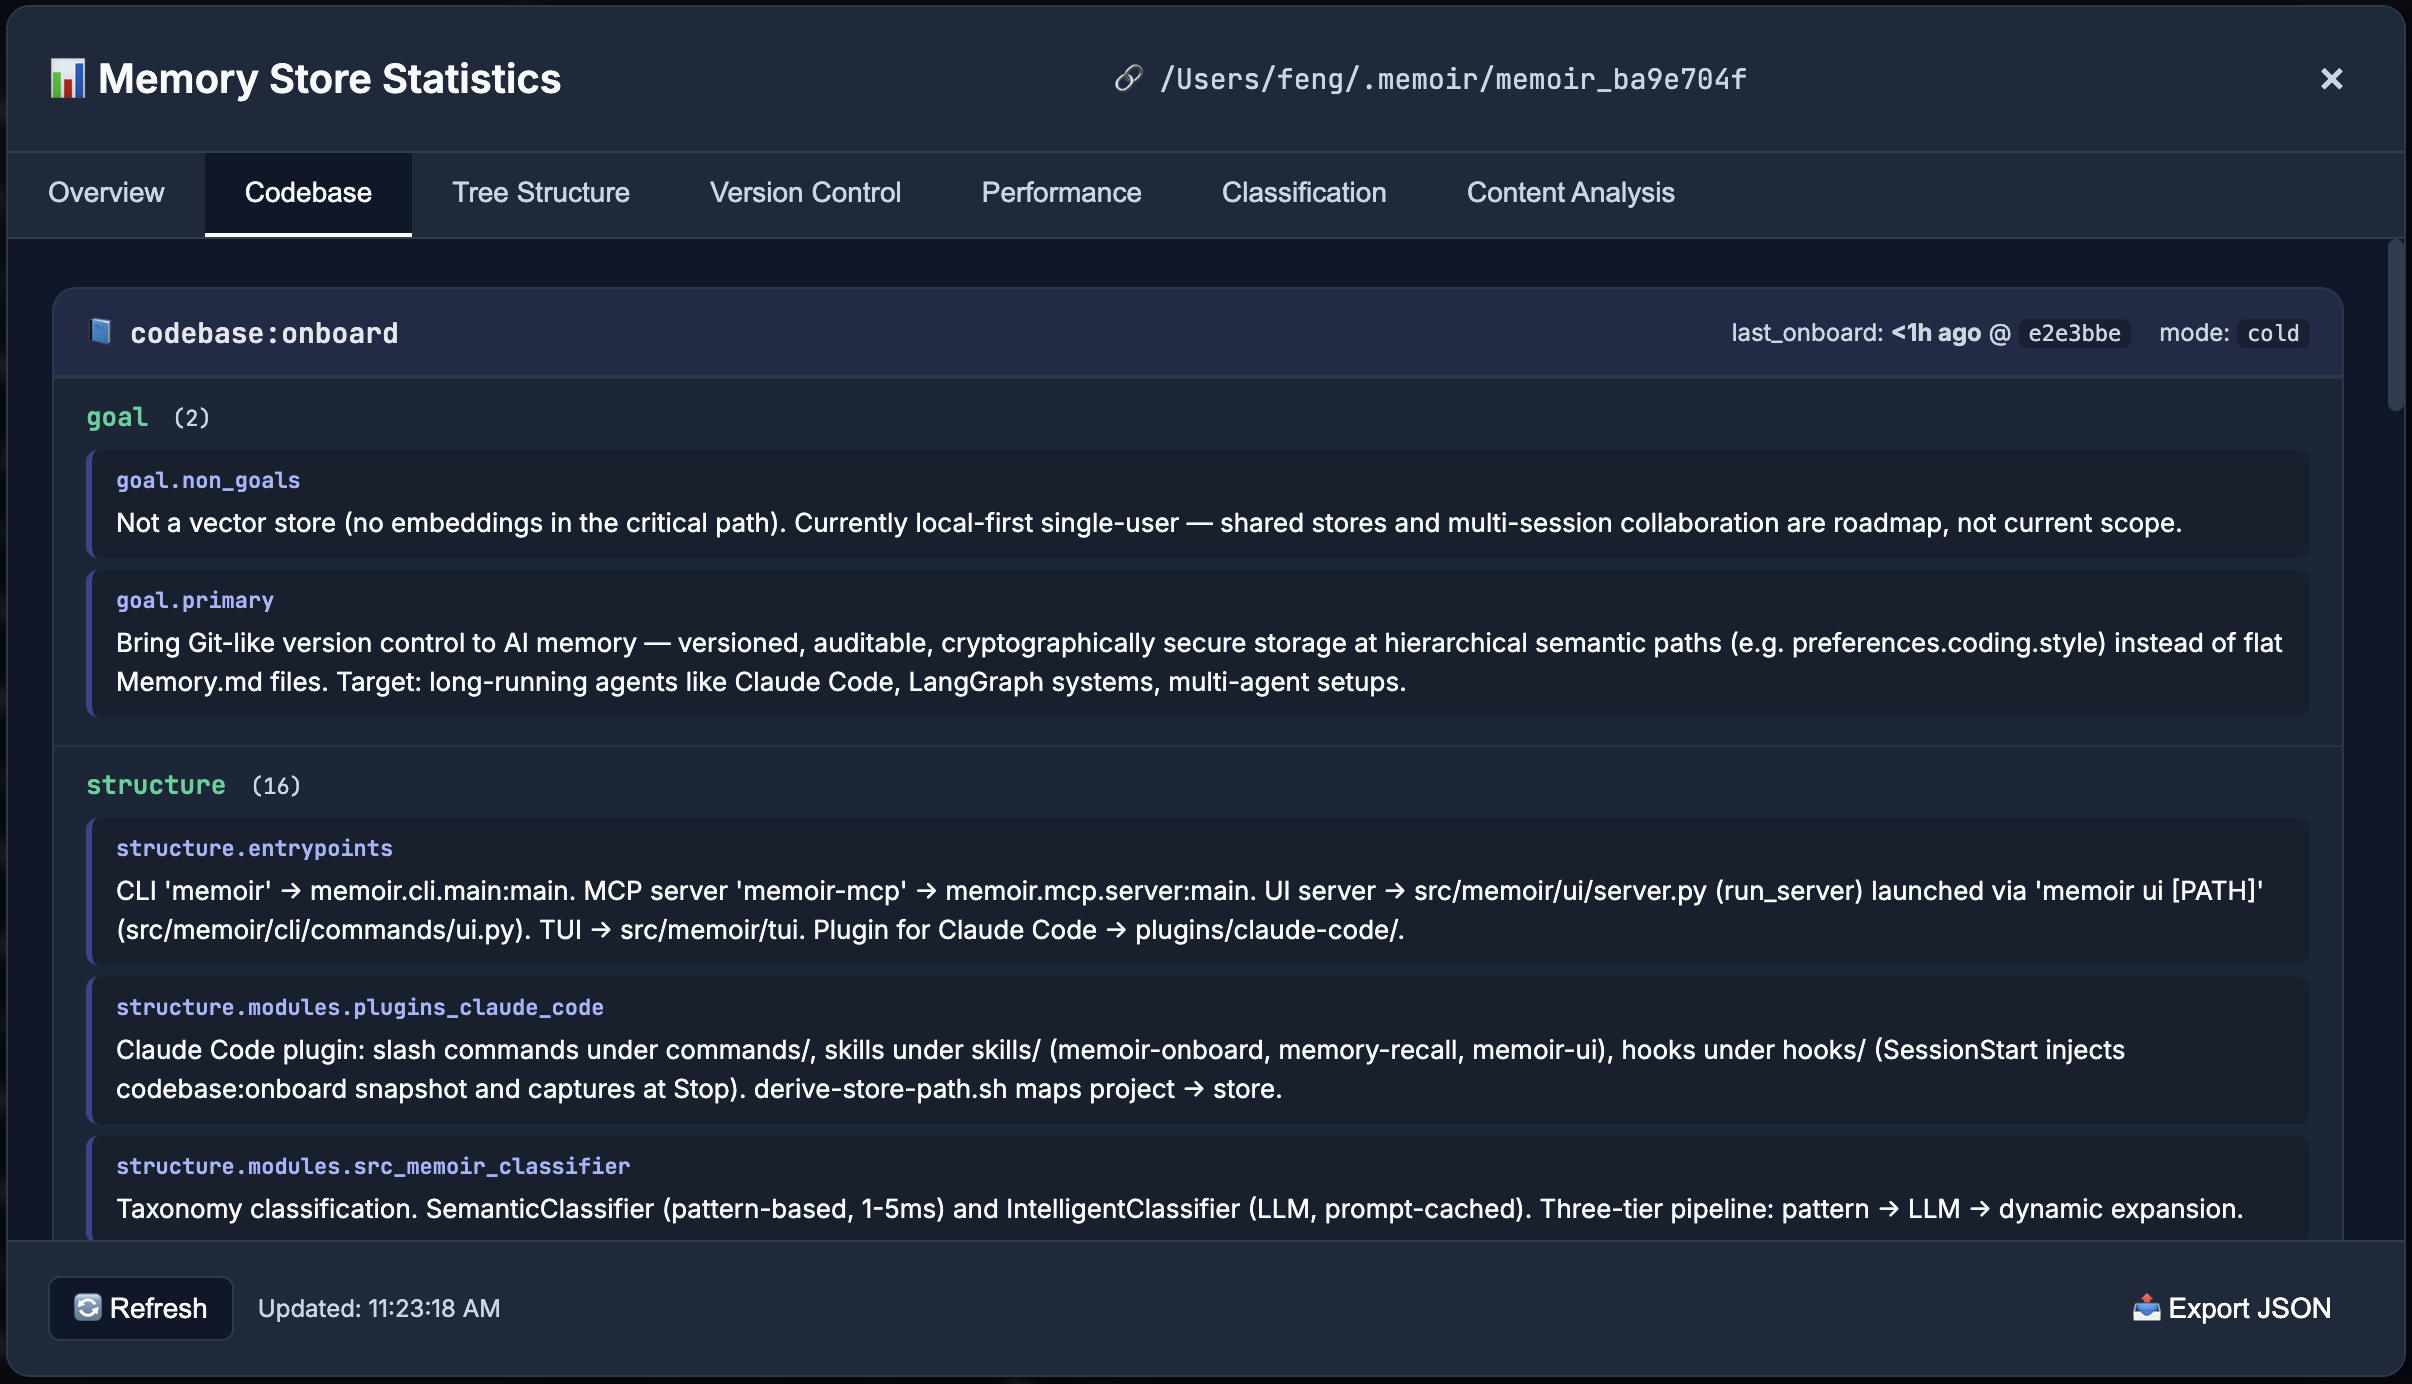
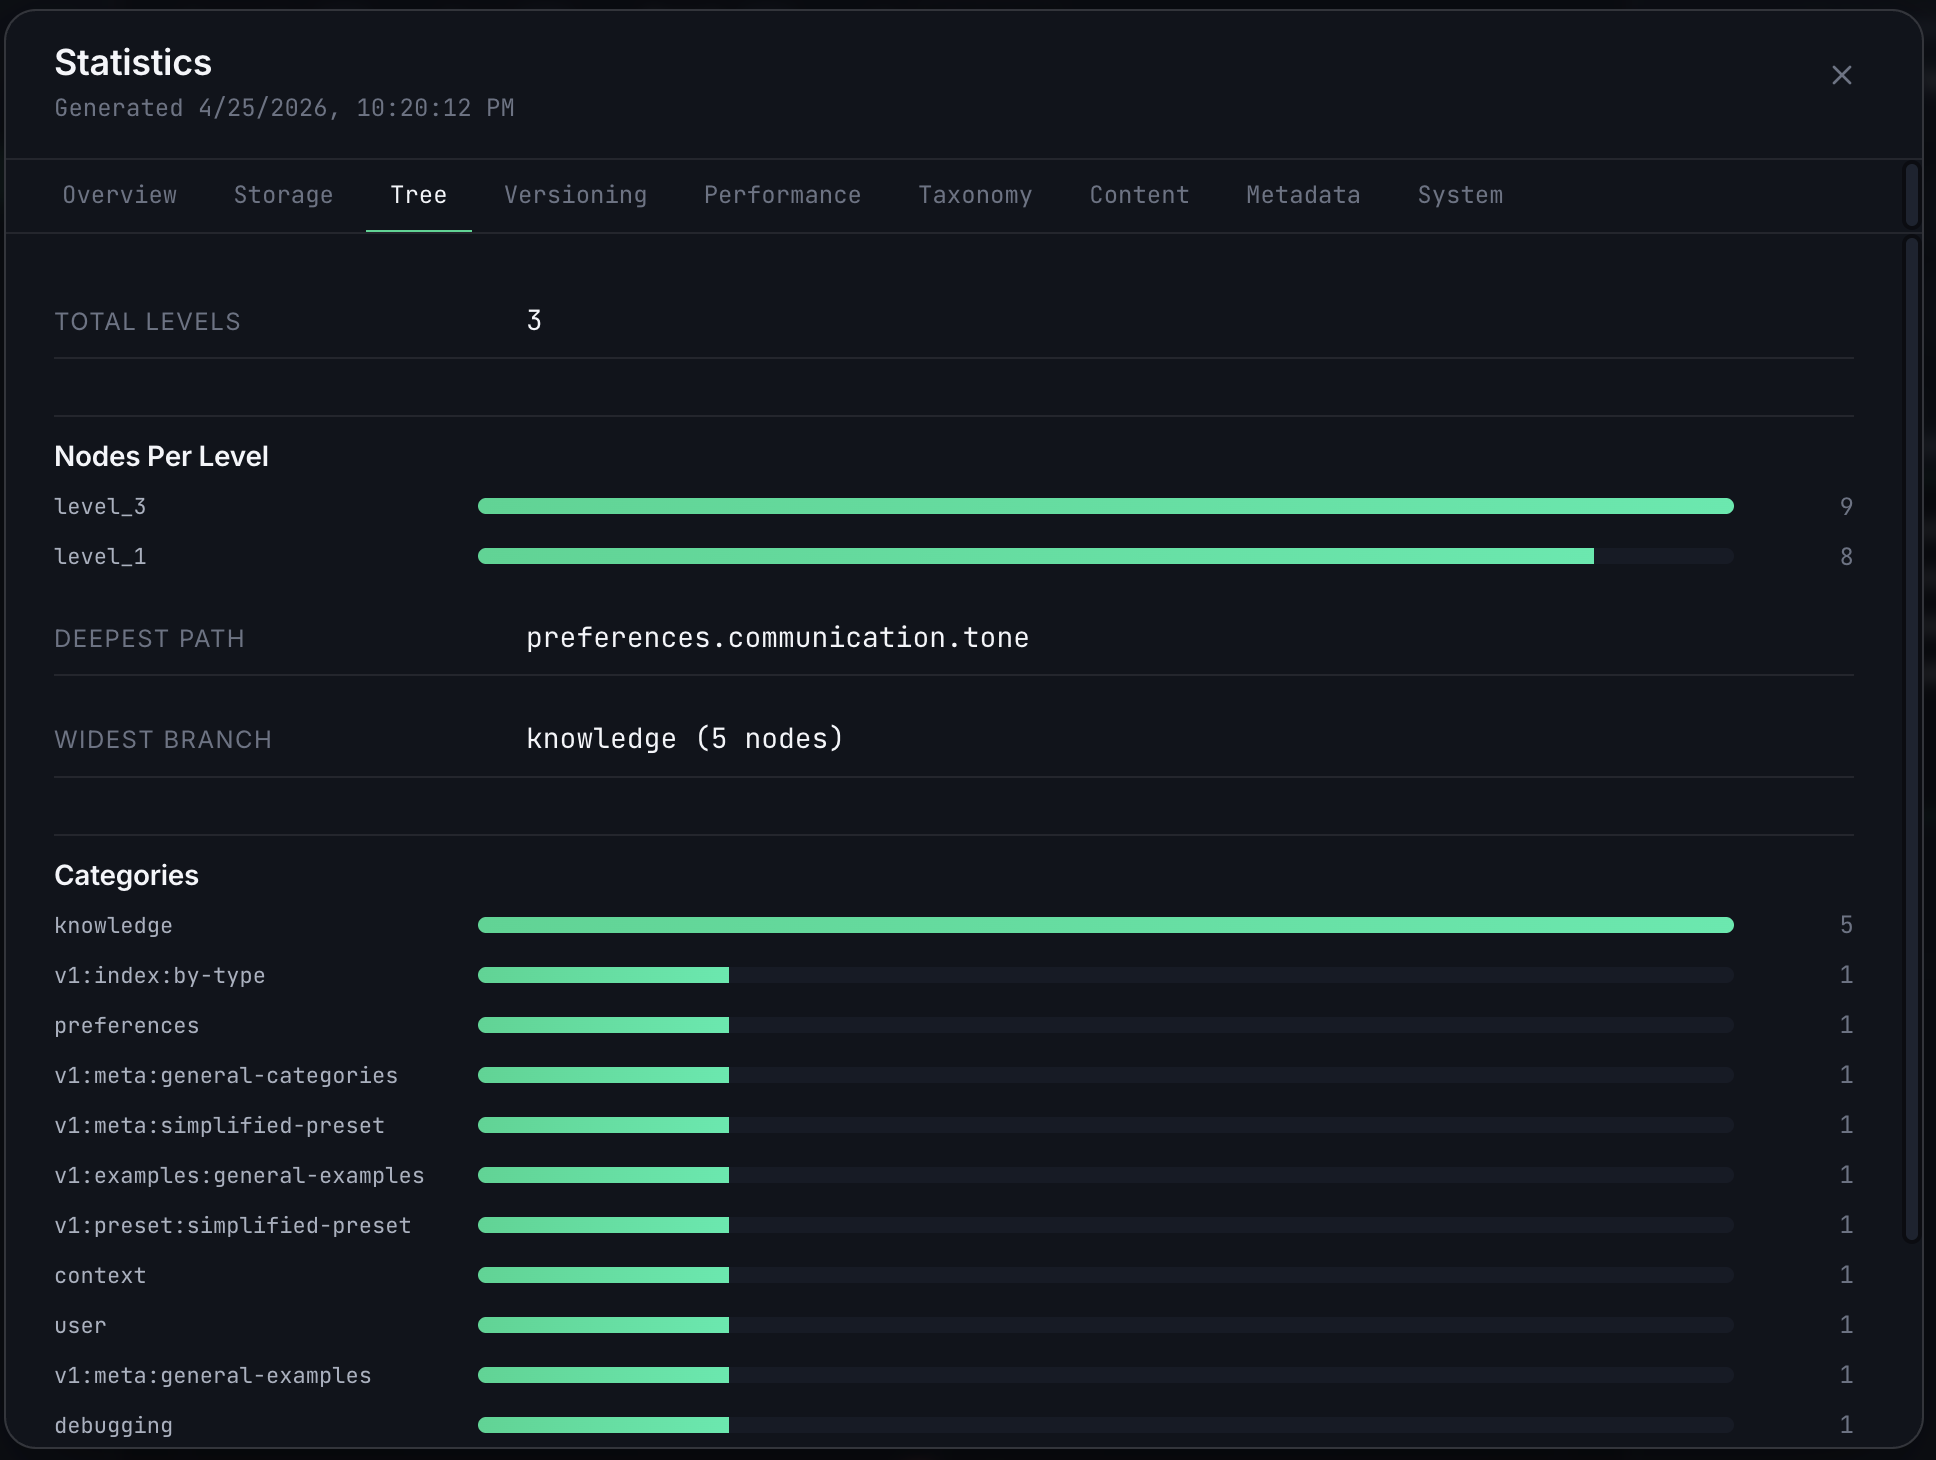
Change the help doc to use new images

diff --git a/src/memoir/ui/webapp/src/layout/TopBar.css b/src/memoir/ui/webapp/src/layout/TopBar.css
@@ -99,6 +99,20 @@
   gap: var(--space-1);
 }
 
+.topbar-edition {
+  font-size: var(--text-xs);
+  font-weight: 500;
+  letter-spacing: var(--tracking-wide);
+  text-transform: uppercase;
+  color: var(--fg-2);
+  background: var(--bg-1);
+  border: 1px solid var(--border);
+  padding: 0.18rem 0.5rem;
+  border-radius: var(--radius-sm);
+  user-select: none;
+  margin-right: var(--space-2);
+}
+
 .topbar-spinning {
   animation: topbar-spin 0.9s linear infinite;
   transform-origin: center;

diff --git a/src/memoir/ui/webapp/src/layout/TopBar.tsx b/src/memoir/ui/webapp/src/layout/TopBar.tsx
@@ -62,6 +62,13 @@ export default function TopBar() {
       </div>
 
       <div className="topbar-right">
+        <span
+          className="topbar-edition"
+          title="Memoir Community Version"
+          aria-label="Memoir Community Version"
+        >
+          Community Version
+        </span>
         {branch && (
           <button className="btn btn-ghost btn-sm" title="Current branch">
             <svg